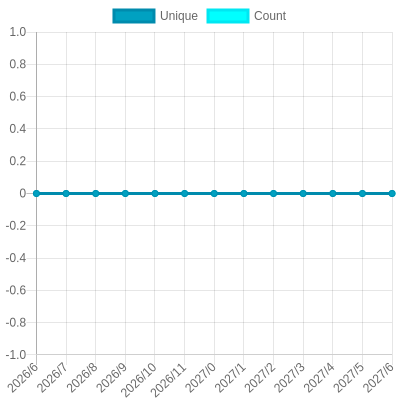
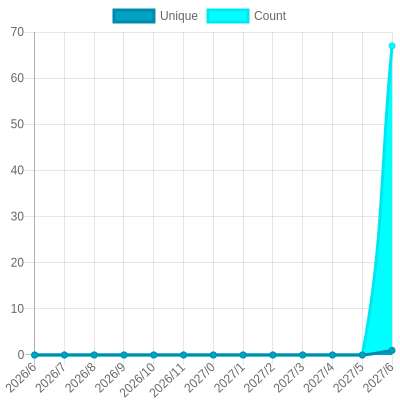
Update views

diff --git a/readme/1208882536/year.md b/readme/1208882536/year.md
@@ -23,10 +23,10 @@
 			<code>2026/7/1</code>
 		</td>
 		<td>
-			<code>0</code>
+			<code>1</code>
 		</td>
 		<td>
-			<code>0</code>
+			<code>67</code>
 		</td>
 	</tr>
 	<tr>
@@ -164,7 +164,7 @@
 </table>
 
 </details>
-<small><i>Last updated on 2026/7/16 7:52 AM UTC</i></small>
+<small><i>Last updated on 2026/7/16 1:15 PM UTC</i></small>
 
 ## ✂Copy and 📋 Paste
 ### SVG Badge

diff --git a/README.md b/README.md
@@ -53,7 +53,7 @@ The project created and maintained by [gayanvoice](https://github.com/gayanvoice
 	</tr>
 </table>
 
-<small><i>Last updated on 2026/7/16 7:53 AM UTC</i></small>
+<small><i>Last updated on 2026/7/16 1:15 PM UTC</i></small>
 
 ## ✂Copy and 📋 Paste
 ### Total Views Badge

diff --git a/readme/1075619275/year.md b/readme/1075619275/year.md
@@ -164,7 +164,7 @@
 </table>
 
 </details>
-<small><i>Last updated on 2026/7/16 7:53 AM UTC</i></small>
+<small><i>Last updated on 2026/7/16 1:15 PM UTC</i></small>
 
 ## ✂Copy and 📋 Paste
 ### SVG Badge
